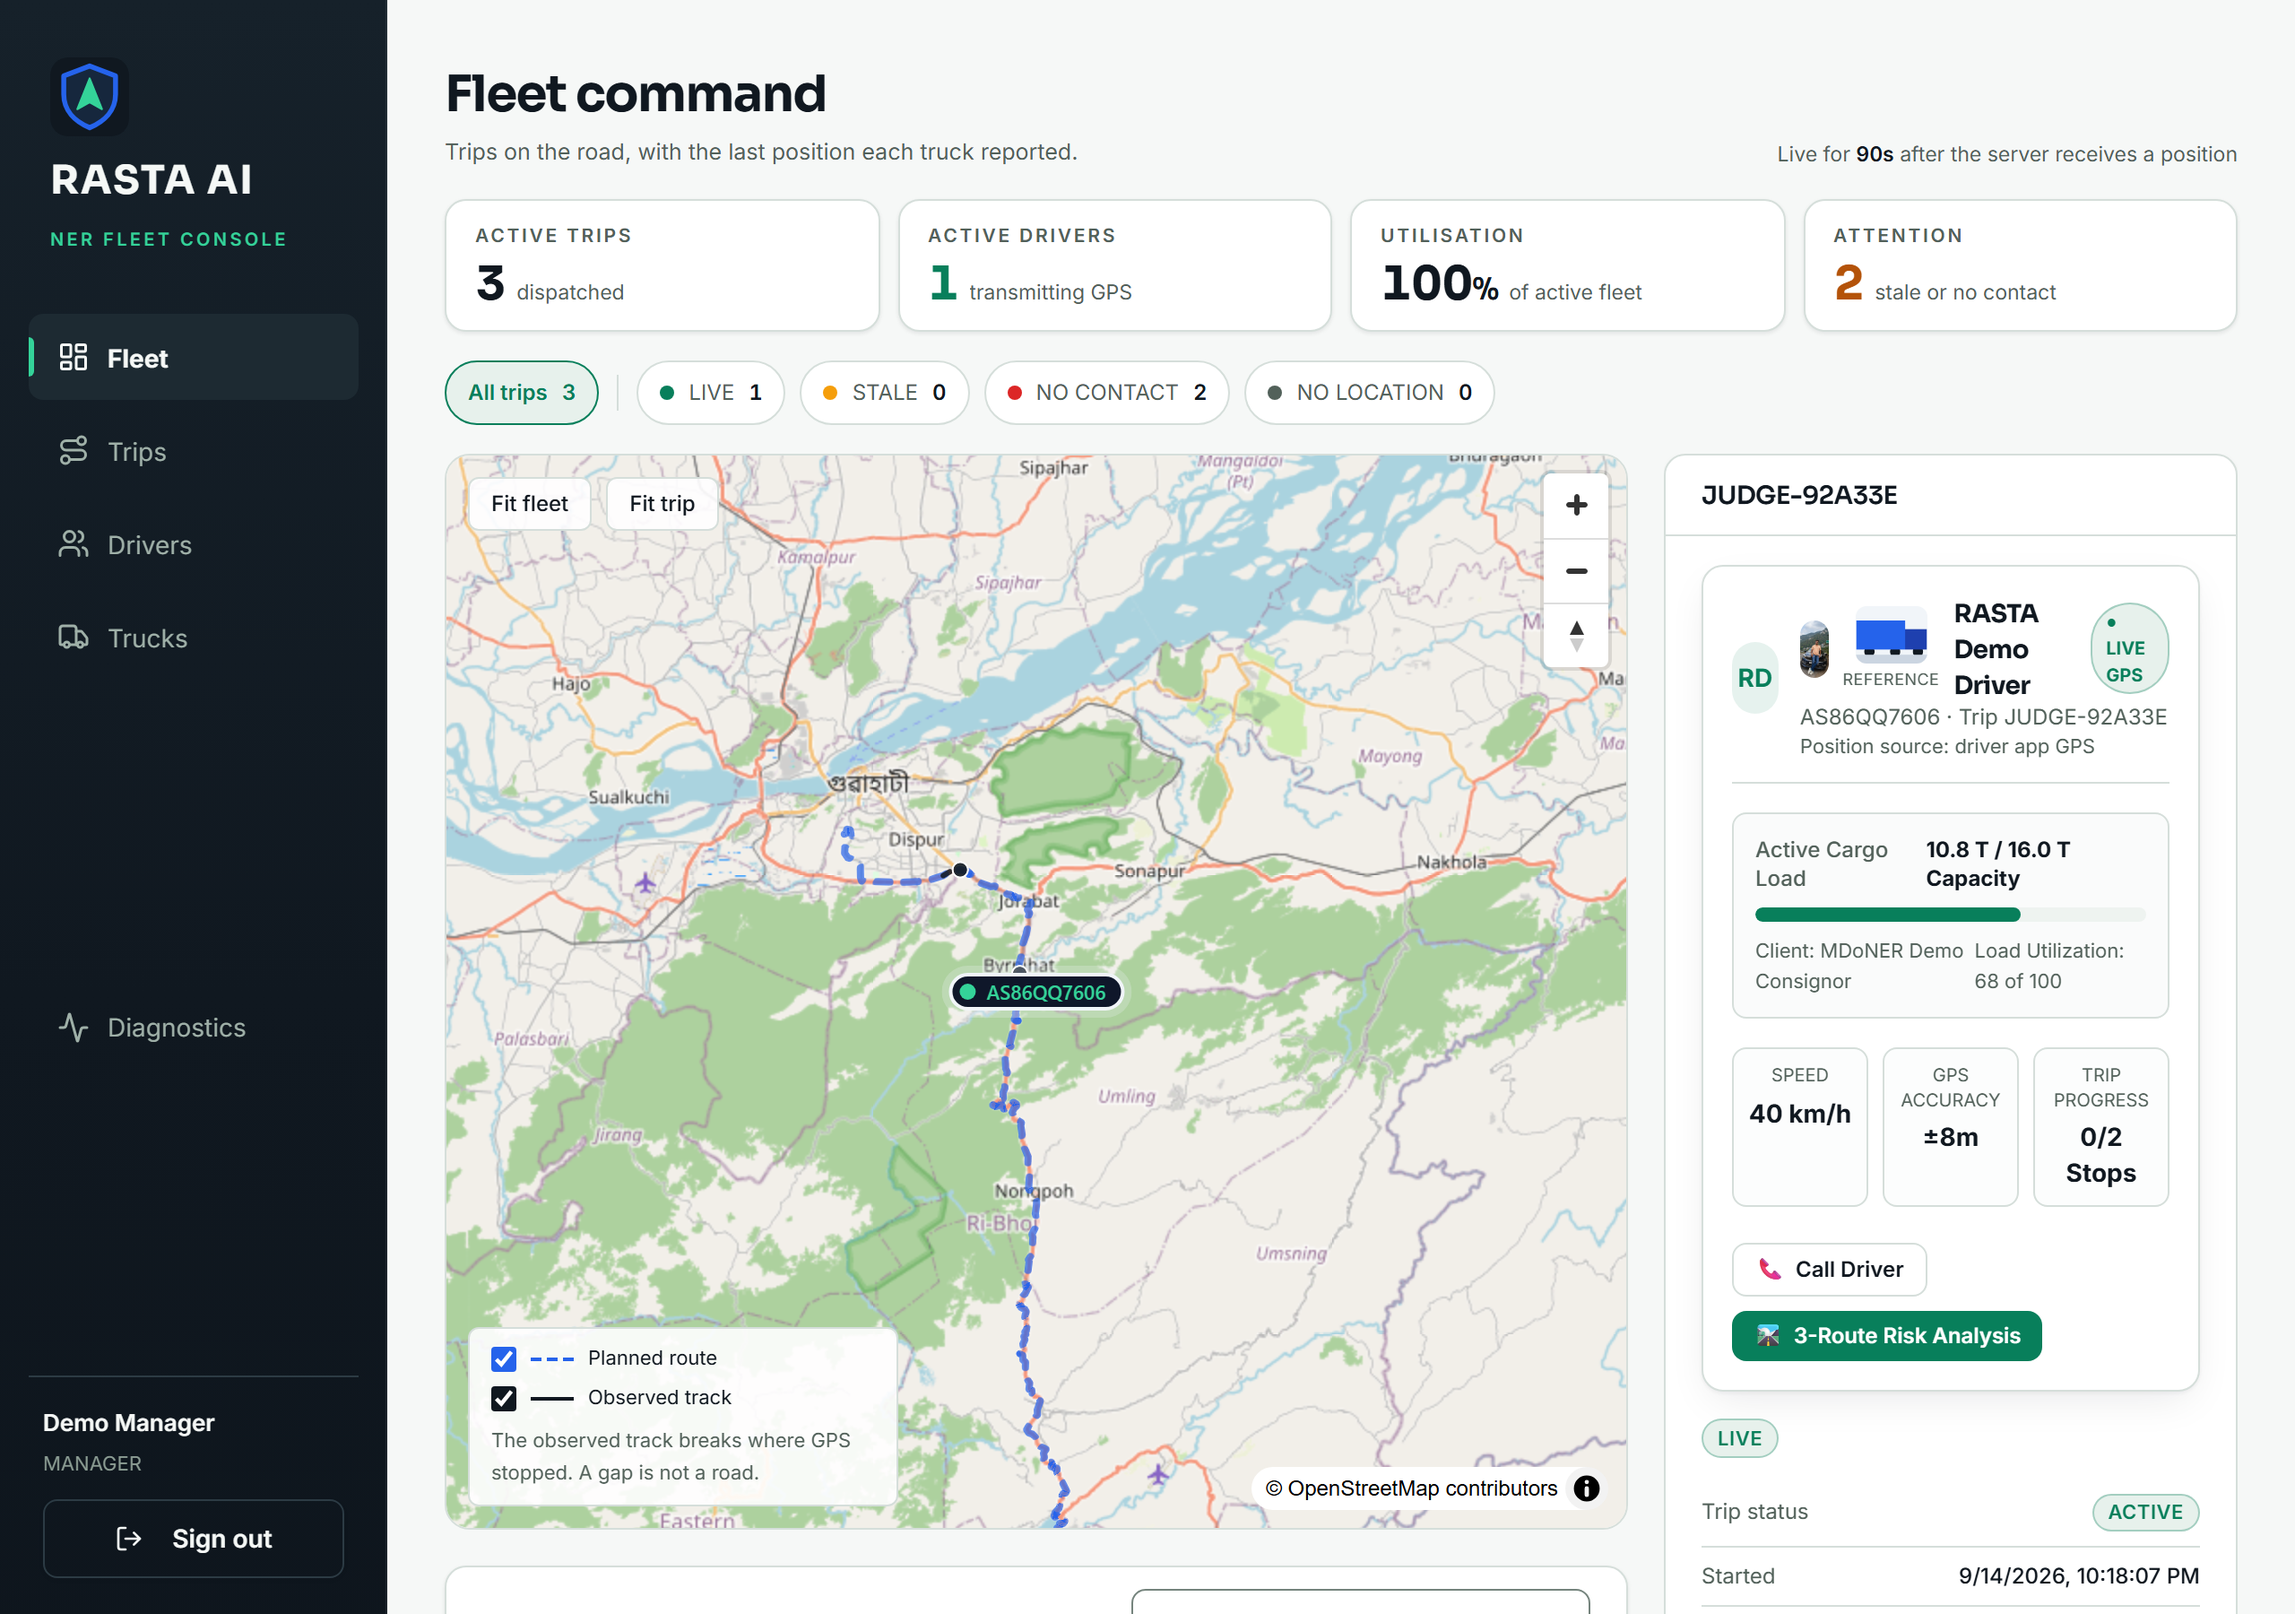
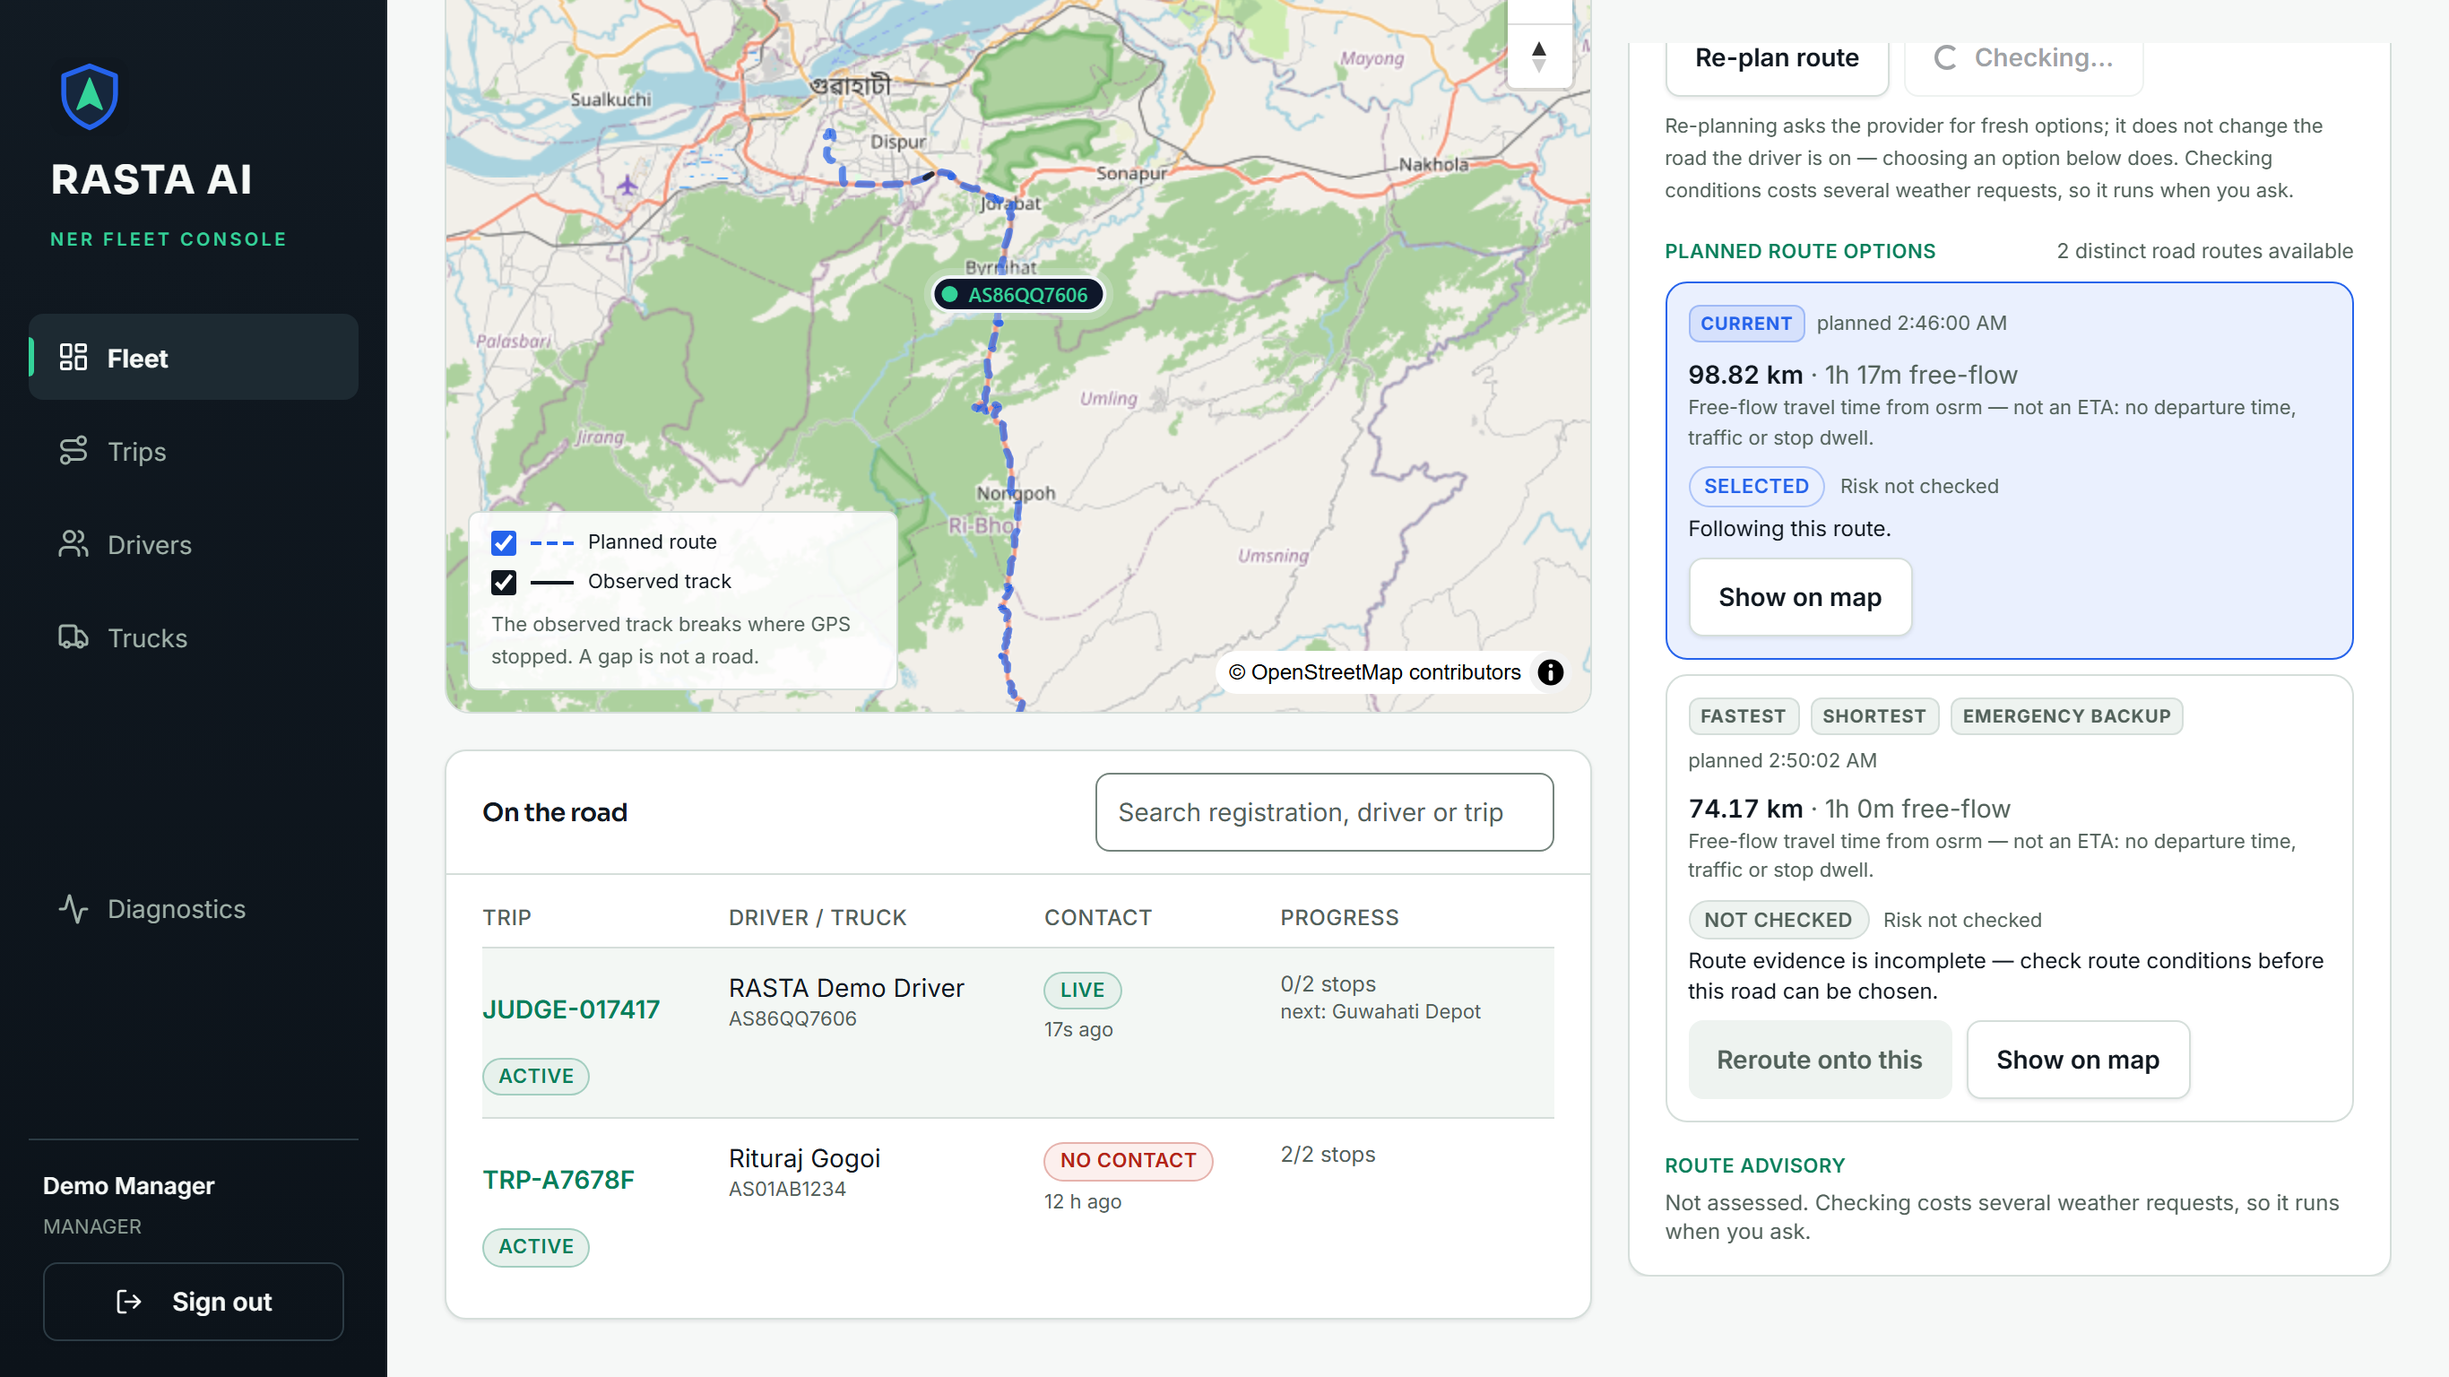
HANDOFF 12: final delta repair - 2,908 km root cause, region gate, honest route cards, map-pin naming; reroute review screenshot refreshed

diff --git a/docs/terrain/HANDOFF.md b/docs/terrain/HANDOFF.md
@@ -1380,3 +1380,105 @@ disabled button titled, no horizontal overflow at 768/1024/1366/1920, driver
 credentials refused on the manager web. Provider note: Nominatim answered
 slowly (rate limited) - handled as a slow-search hint plus map/link fallbacks,
 never as an outage.
+
+
+## 12. Final delta repair (15 Sep 2026, small hours) - the 2,908 km route and what it exposed
+
+Commits f0740dd, b8a06fb. Evidence in `.runtime/evidence/delta/` (targeted
+hosted checks) and `.runtime/evidence/human-cert/` (guidance/reroute run).
+Nothing certified in §11 was redone; the targeted checks below cover only what
+changed.
+
+**The route was right; the journey was not.** TRP-08726C5F ("abc traders",
+14 Sep 21:03 IST, the old console) stored a pickup at a Nagaland village
+("Tokiye, Aghunato, Zunheboto") and a delivery at an Ahmedabad locality - both
+picked from the address search (Nominatim, India-wide), both stored with
+consistent lon/lat in stops, shipment and every route's geometry ends (within
+40 m). Straight-line 2,237 km, OSRM road 2,908 km / 34h 50m, ratio 1.30; the
+backup 3,037 km. All three plans (15:33, 15:42, 18:51 UTC) ran from the pickup
+stop - the audit says "route planned via osrm", never "from reported position".
+Ruled out: stale coordinates, label/pin divergence, swapped lat/lon, wrong
+search result, Maps-link parse, driver GPS as origin, reroute origin, wrong
+trip, reused route, bad version, serialisation. The trip was also dispatched
+(21:16 IST) with NO selected route - before the hardened console's dispatch
+gate deployed (22:03 IST); the backend still permits a routeless dispatch
+(P3, left alone: 51 test files dispatch without one).
+
+**What changed.**
+- Backend: `endpoint_mismatch` in `app/domain/routing.py` - a provider line
+  that starts/ends more than 10 km from the requested stops, is shorter than
+  the straight line, or longer than 3x straight line + 20 km is refused with
+  422 `ROUTE_VALIDATION_FAILED` and nothing is stored. Planning asks OSRM for
+  three options (`MAX_ROUTE_OPTIONS`); every distinct extra becomes an
+  EMERGENCY_BACKUP row, duplicates are dropped, nothing is padded; the
+  recommendation cap follows (3). Measured live: Guwahati-Shillong 1 road,
+  Guwahati-Jorhat 1, Guwahati-Itanagar 2. Tests: 8 pure, 2 API, driver reroute
+  fixtures aligned to the factory stops. Full suite 1148 passed, 5 skipped.
+- Planner: a confirmed point outside the North-East bounding box (21.5-29.5 N,
+  88-97.5 E) blocks "Create draft trip" with "Location confirmation required -
+  the destination "..." is outside the North-East service region"; the
+  straight-line corridor length is shown under the endpoints. Server-side
+  region validation is NOT added (P3).
+- Fleet route tab: `RouteRiskComparison` deleted (it rendered a "physics
+  fuel model", "ALL 5 STAGES VERIFIED" and a hard-coded NH27/Kaziranga
+  paragraph for every trip). `RouteCandidateCards`: vertical stack, one state
+  per card - SELECTED / SELECTABLE / REVIEW REQUIRED / BLOCKED / NOT CHECKED /
+  STALE - with the exact sentences ("Safety review required...", "Route
+  evidence is incomplete...", "Selected route is no longer current...", "1
+  distinct road route available"), labels from figures (CURRENT, RECOMMENDED,
+  FASTEST, SHORTEST, EMERGENCY BACKUP), the action disabled with the sentence
+  as its title. Three rows above it: Trip status / Driver location (freshness +
+  age) / Route evidence (check time); the floating "STALE (10m)" badge is gone.
+  A moving trip with no current route selects plainly instead of refusing.
+  Inspector ~40% of the row (`.fleet-layout` 3fr/2fr), nested scroll box
+  removed. Manager tests 206 passed.
+- Driver app: `sceneLayers` tags live layers; the web map draws static and
+  live layers in separate effects (live pane above); the pin holds while the
+  speed filter says stationary (`settledPosition`); the last-known age is
+  quantised to 30 s. 624 tests passed. APK 1.0.18 is NOT rebuilt; the change
+  ships in the driver web now and in the next EAS build.
+
+**Targeted hosted checks (delta_check.mjs, real Chromium, 29/34).** Planner
+refuses Guwahati -> Nava Naroda with the location named and 1,958 km shown;
+Guwahati -> Shillong accepted at 68 km; draft planned through the UI (97.21
+km, no validation failure); Fleet route tab shows the three fact rows, "No
+route selected - this trip is under way without one", 2 distinct road routes
+at 2,908 km on cards 384 px wide, one scroll box, no narrow wrapping, no
+overflow at 1024/1366/1920, action disabled with "Route evidence is
+incomplete". The five failures were automation: two regexes ("Shillong,
+Mylliem" is two spans; "97.21 km" has two decimals), a click that did not
+register, and the row-cancel finder - which clicked the LAST "Cancel" on the
+Trips page and cancelled TRP-08726C5F itself (audit 20:32 UTC, "cancelled by
+manager"). That trip is therefore CANCELLED now; the script is row-scoped
+since. The same "Check route conditions" step re-run on TRP-A7678F:
+Checking... -> Check again in 15 s, REVIEW REQUIRED, "checked 2:09:51 AM",
+"Reroute onto this" disabled with "Safety review required...".
+
+**Choose on map (e186f8b, from the user's screenshot).** A pin dropped with
+nothing typed left the address blank - a "Location set" strip over an empty
+box and a draft the server would refuse (`pickup_address` min_length=1). The
+pin now gets a coordinate label at once ("Pinned location 26.60206,
+91.61924") and the reverse lookup (`/api/geocoding/details?place_id=osm:lat,lon`)
+replaces it with the place name ("Tamulpur, Assam, 781367, India" in the hosted
+check); typed words win when there are any. The map opens at a resolved
+OpenStreetMap result (never at a Google one), a confirmed location no longer
+triggers a suggestion search for its own label, and Advanced coordinates
+without a name are refused with "Name the pickup location...". Hosted check
+`map_pick_check.mjs`: 11/12 - the one failure was the correct "RASTA Demo
+Driver is already on a trip" gate while the JUDGE trip was active.
+
+**Hosted human reroute workflow (manager_human_cert_guidance.mjs, 19/22, JUDGE-017417).**
+Console replan (98.82 km), reviewer authorises, ROUTE SELECTED, dispatch, driver
+accepts, verifies the truck, starts, turn-by-turn on the manager-planned route
+("7.1 km Turn right", 4,341 pts), real off-route -> "awaits manager", the Fleet
+route tab shows PLANNED ROUTE OPTIONS with the CURRENT card and the 74.17 km
+EMERGENCY BACKUP, reviewer authorises the backup, "Reroute onto this" enabled,
+driver follows the backup with guidance ("750 m Turn left", 3,529 pts),
+delivery, DELIVERED. The three misses are script expectations: a selection
+survives a replan by design (LS-10), and two reads taken while the inspector
+was reloading. Two earlier runs of the same script stalled at the driver's
+Start because the truck screen's button reads "Back to trip - checked" after
+verification; exact-text match, fixed in the scripts (prefix match).
+Hosted probe (manager_probe.mjs, MANAGER_URL set): 34/34. Buttons audit: Add
+driver / Add truck / assignment records all work. judge.sh reset + check:
+READY.

diff --git a/docs/submission/screenshots/README.md b/docs/submission/screenshots/README.md
@@ -16,7 +16,7 @@ Real current screens, captured 14 Sep 2026 (evening re-capture) on the hosted st
 | `07b-offline-navigation.png` | Driver, navigation continuing offline from the cached whole-trip package |
 | `08-route-ai.png` | Driver, PERSONAL ROUTE AI panel: CAUTION with reasons (steep gradients, recorded landslides) and evidence coverage |
 | `09-reroute.png` | Driver, real off-route: 'Off the planned road - new road 74.2 km awaits manager' (human-governed reroute) |
-| `09b-reroute-manager-review.png` | Manager web, ALTERNATIVE ROUTES review of the driver's reroute proposal (74.17 km, needs review) |
+| `09b-reroute-manager-review.png` | Manager web, Fleet route tab after the driver's off-route: PLANNED ROUTE OPTIONS as cards - CURRENT 98.82 km (SELECTED, Following this route) and the 74.17 km EMERGENCY BACKUP (NOT CHECKED until conditions are checked, then REVIEW REQUIRED / SELECTABLE) |
 | `10-manager-mobile.png` | Manager account on the phone APK 1.0.18: mobile manager shell Overview (no driver identity), provider health shown honestly |
 | `11-language-selector.png` | Driver phone 1.0.18, language sheet with search: 23 languages, status per language (Verified / Draft / English fallback) |
 | `12-delivery.png` | Driver after Complete trip: No active trip, available for assignment |
